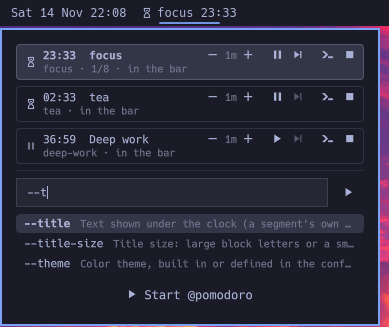
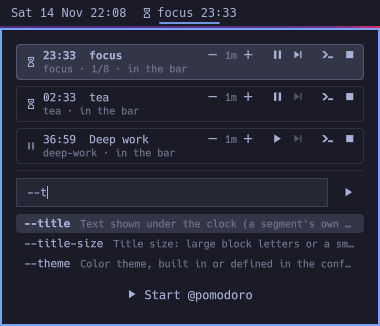
Crop the popup screenshots to the card

diff --git a/README.md b/README.md
@@ -15,7 +15,7 @@ timer:
 ![The bar with a running timer](assets/bar.png)
 ![The bar in the final seconds](assets/bar-alert.png)
 
-<img src="assets/popup.png" alt="The popup with three running timers" width="389"> <img src="assets/popup-completion.png" alt="The popup completing t- options" width="389">
+<img src="assets/popup.png" alt="The popup with three running timers" width="380"> <img src="assets/popup-completion.png" alt="The popup completing t- options" width="380">
 
 ## Requirements
 
